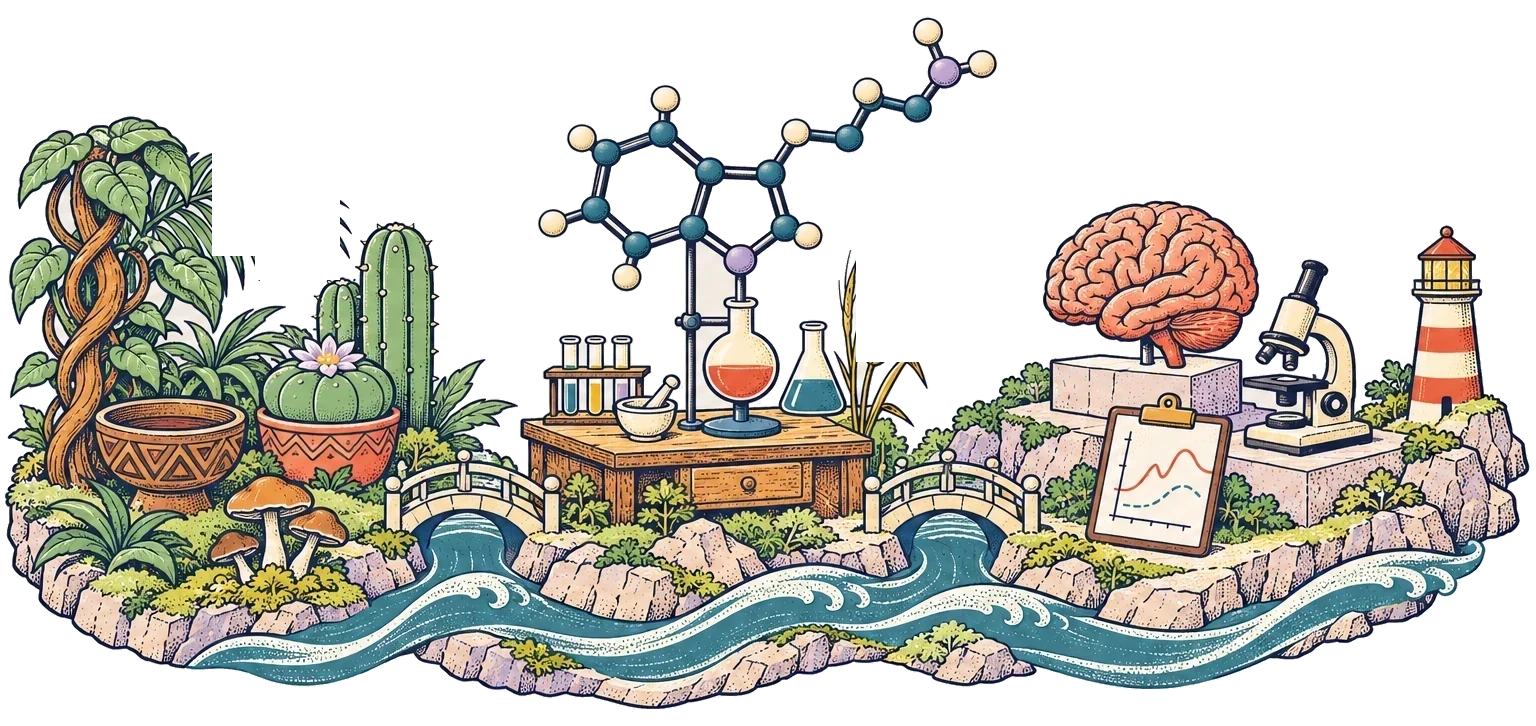
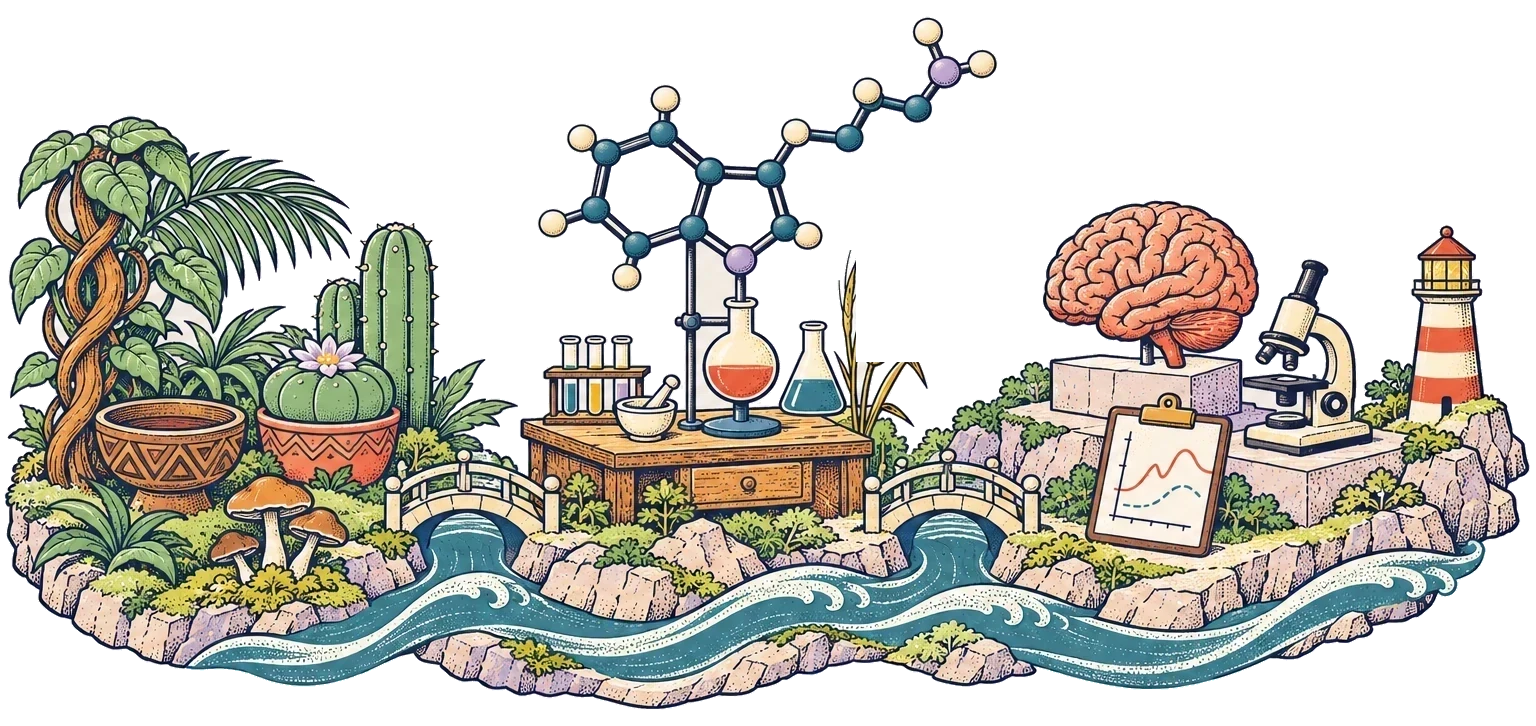
Plain home headline, merge static palm into hero

Changed region(s): [[0.125, 0.2121, 0.2188, 0.3636]]

diff --git a/src/styles/home.css b/src/styles/home.css
@@ -236,7 +236,7 @@
 
 /* hero life, part 2: wind in the plants, chemistry and neurons */
 .hx{position:absolute;will-change:transform}
-.hx.palm{transform-origin:0% 46%;animation:frond 6.5s ease-in-out infinite}
+.hx.palm{transform-origin:0% 46%}
 .hx.wheat{transform-origin:12% 100%;animation:wheat 4.8s ease-in-out infinite}
 @keyframes frond{0%,100%{transform:rotate(0)}40%{transform:rotate(-2.2deg)}70%{transform:rotate(1deg)}}
 @keyframes wheat{0%,100%{transform:rotate(0)}35%{transform:rotate(3.2deg)}65%{transform:rotate(-1.4deg)}}

diff --git a/docs/style-guide.md b/docs/style-guide.md
@@ -21,3 +21,7 @@ Public : francophones adultes curieux, parfois inquiets. Site d'information et d
 - Toute instruction pratique : comment se procurer, cultiver, préparer, extraire, doser ou consommer une substance (posologies en mg/g par palier, recettes, voies d'administration détaillées comme mode d'emploi). Remplacez par une phrase neutre du type : « Les doses varient fortement selon le produit et la personne ; ce guide ne donne pas de repères de dosage. »
 - Tout ton promotionnel, toute mention commerciale (kits, cours, coaching, codes promo, « notre partenaire »).
 - Les mentions de durée d'effet ou de mécanisme restent, car ce sont des informations de sécurité.
+
+## Titres et accroches
+- Utile et simple d’abord : dire ce qu’on trouve sur la page, sans formule. Exemple de référence : « Les psychédéliques : effets, risques, recherche ».
+- Pas de jeux de mots, pas de promesses, pas de slogans (« sans tabou », « à la lumière de… », « tout ce qu’il faut savoir »).
